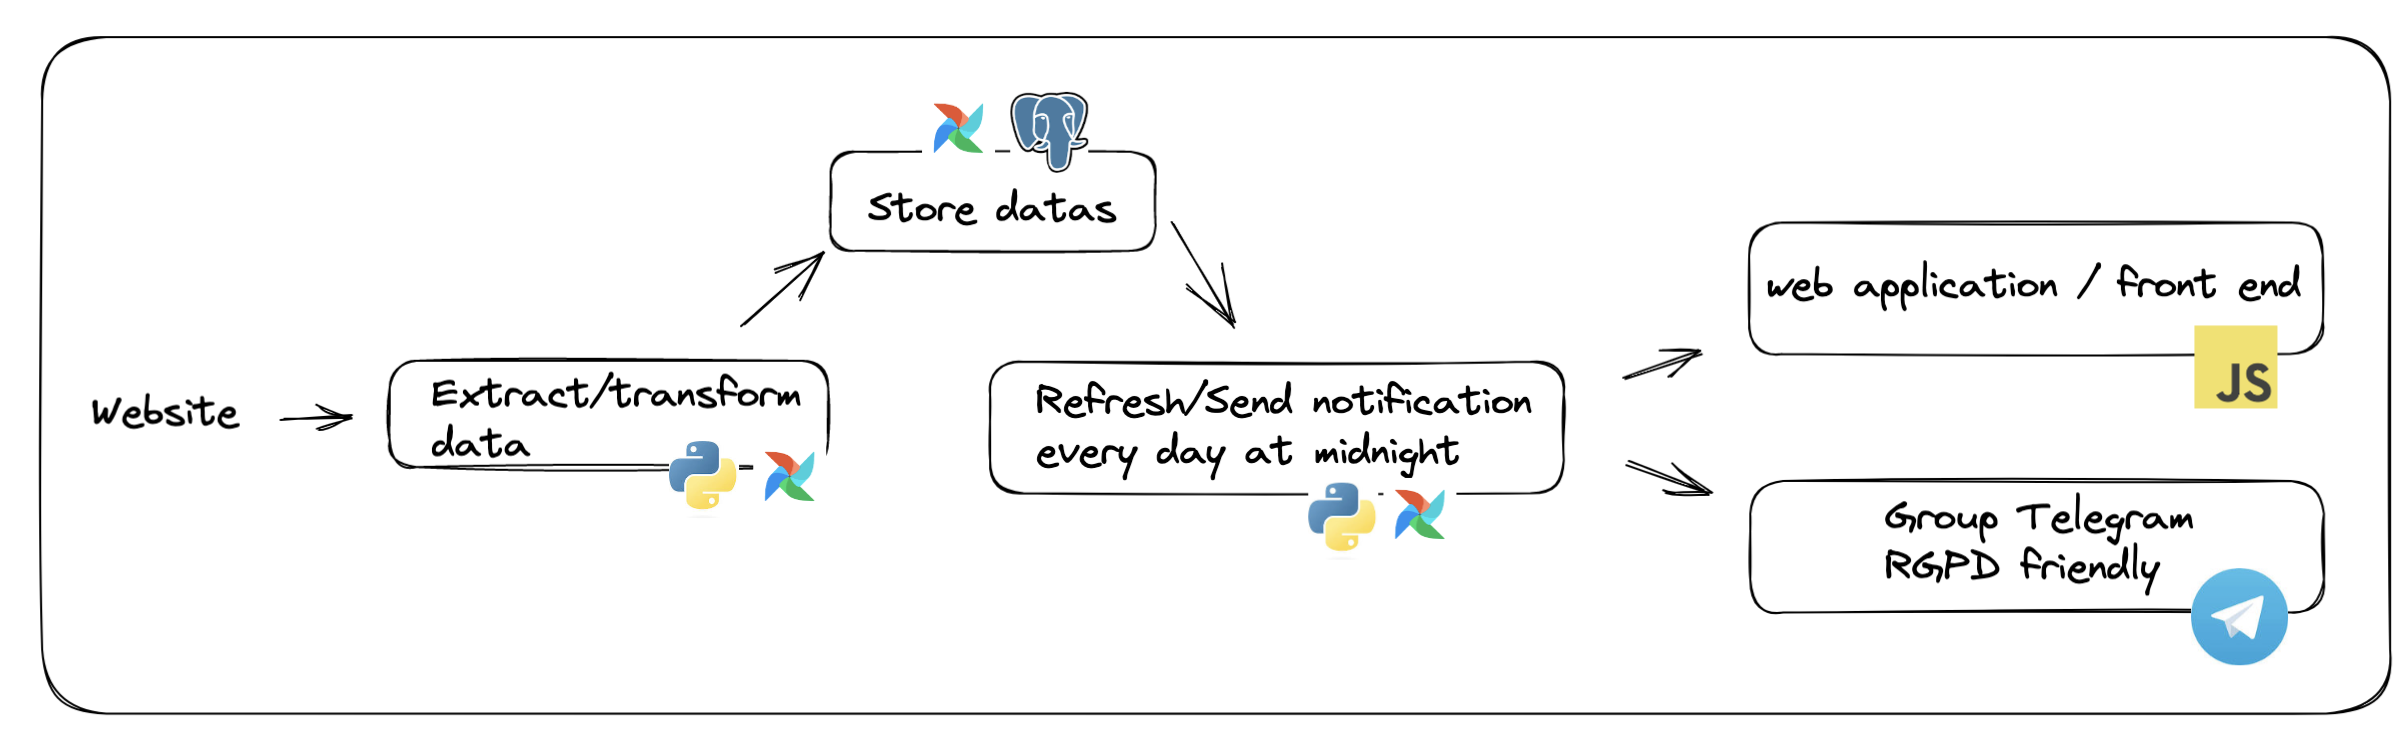
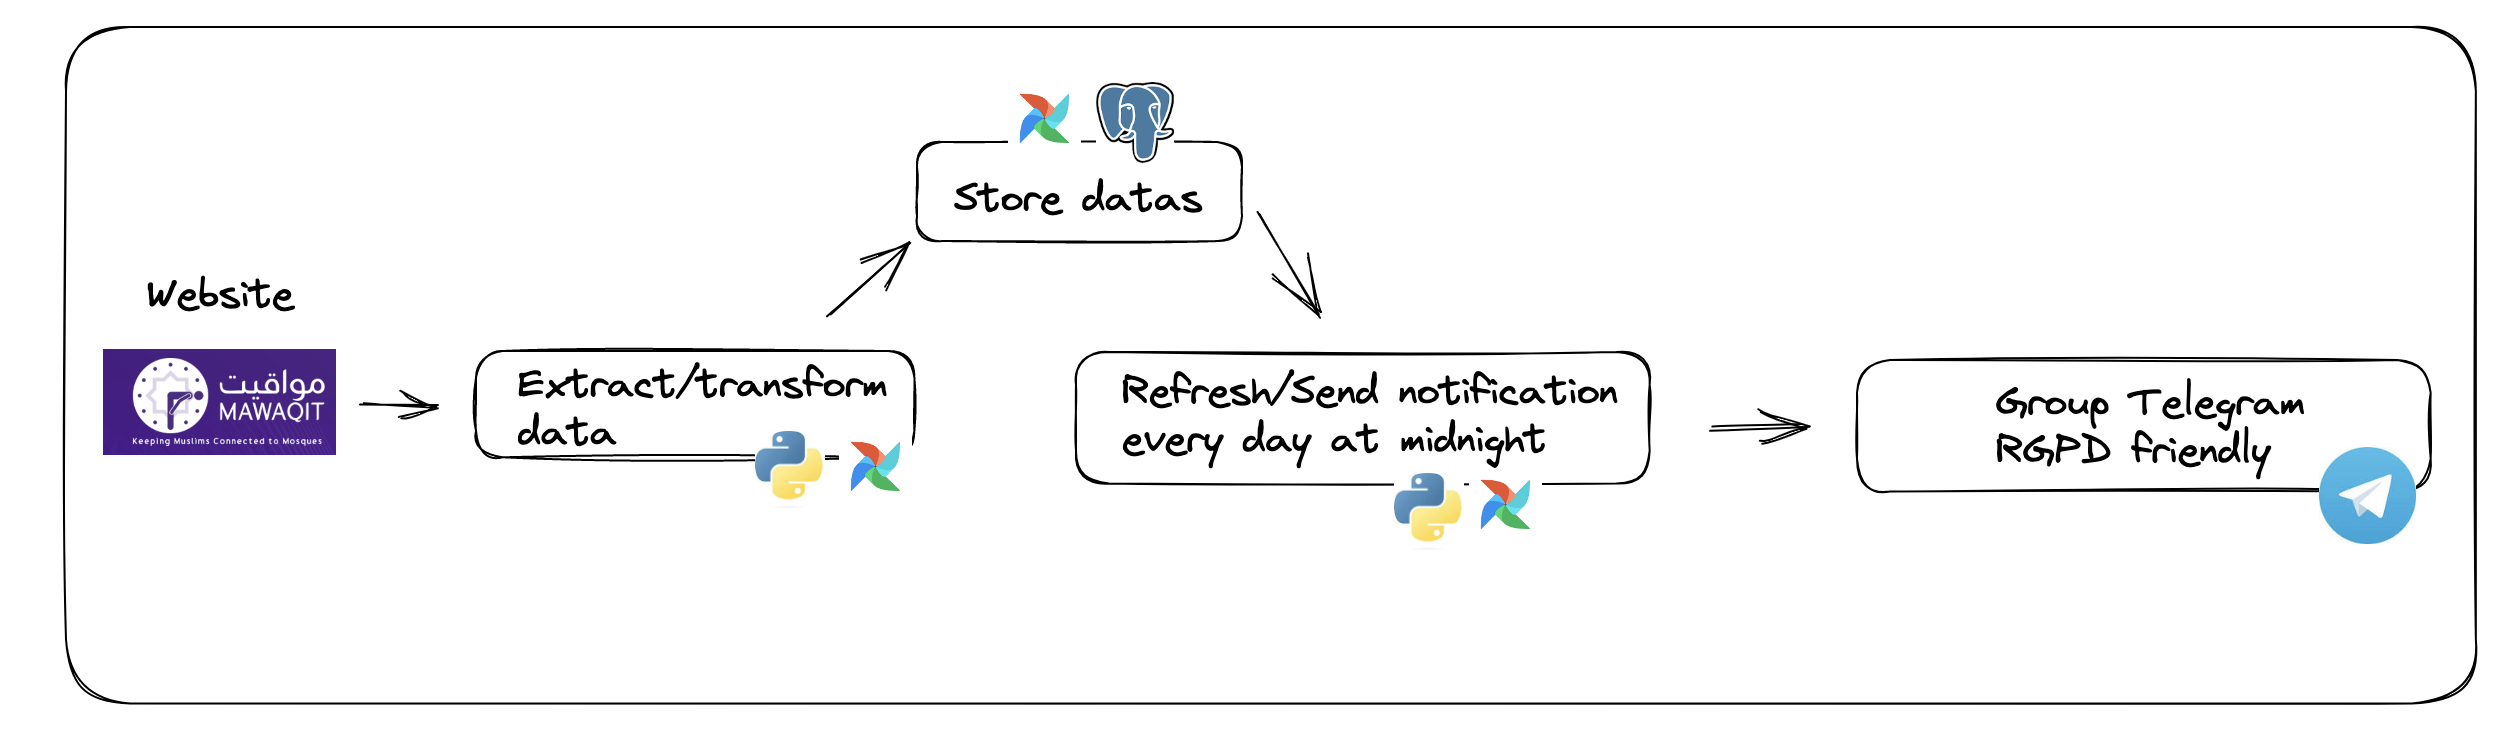
fix (V1.0.4): Modify README.md to be more concise.

diff --git a/README.md b/README.md
@@ -12,19 +12,23 @@ As a Muslim, it is obligatory to pray 5 times a day in different prayers at spec
 
 as well as performing the Friday group prayer (Jumua) at the mosque every week.
 
-To know the starting time of the prayer before the next prayers two solutions were offered to me:
+To know the starting time of prayer, I had two solutions :
 
-- there are many applications on Google Store/Apple Store. Not wanting my personal data to be used by third party applications, I decided not to use them anymore.
+- there are many applications on Google Store/Apple Store. However, some of these applications had wrong prayer times, and I didn't want my data leaked by something other than third-party applications, so I decided not to use them anymore.
 - to go through websites, multiply the tabs within my smartphone and have to do the google search every time. This solution is boring.
 
-I decided to do this project to facilitate the daily life of people living in the Paris region and referring to the Paris mosque.
+I discovered the [Mawaqit association](https://mawaqit.net/fr/). This association aims to provide users with quality information through a website/app.
 
-By using telegram, you will receive a daily message with all the following information:
+As an avid telegram user, I decided to do this project to access this quality information and condense it within a telegram (RGPD-friendly) group.
+This solution will facilitate the daily life of people (telegram fans like me) living in the Paris area and referring to the Paris mosque.
 
-- exact times of the 5 obligatory prayers
-- exact times of the 2 Friday prayer slots (first session : time_jumua_1 and second session : time_jumua_2)
-- iqama times (iqama_difference >= 0) : how many minutes between adhan (the call to prayer by the Imam and the beginning of the prayer)
-- shuruq: extra prayer in the morning after Fajr prayer (but highly recommended)
+You will receive a daily message using my telegram bot with all the following information.
+
+- the exact times of the five obligatory prayers
+- exact times of the 2 Friday prayer slots (first session: time_jumua_1 and second session: time_jumua_2)
+- iqama time (iqama_difference >= 0): how many minutes between the adhan (the call to prayer by the Imam and the beginning of the prayer)
+- shuruq : additional prayer in the morning after the Fajr prayer (but highly recommended)
+- different duas in French and Arabic (when arriving at the mosque, after the adhan ..)
 
 # Technical Overview
 
